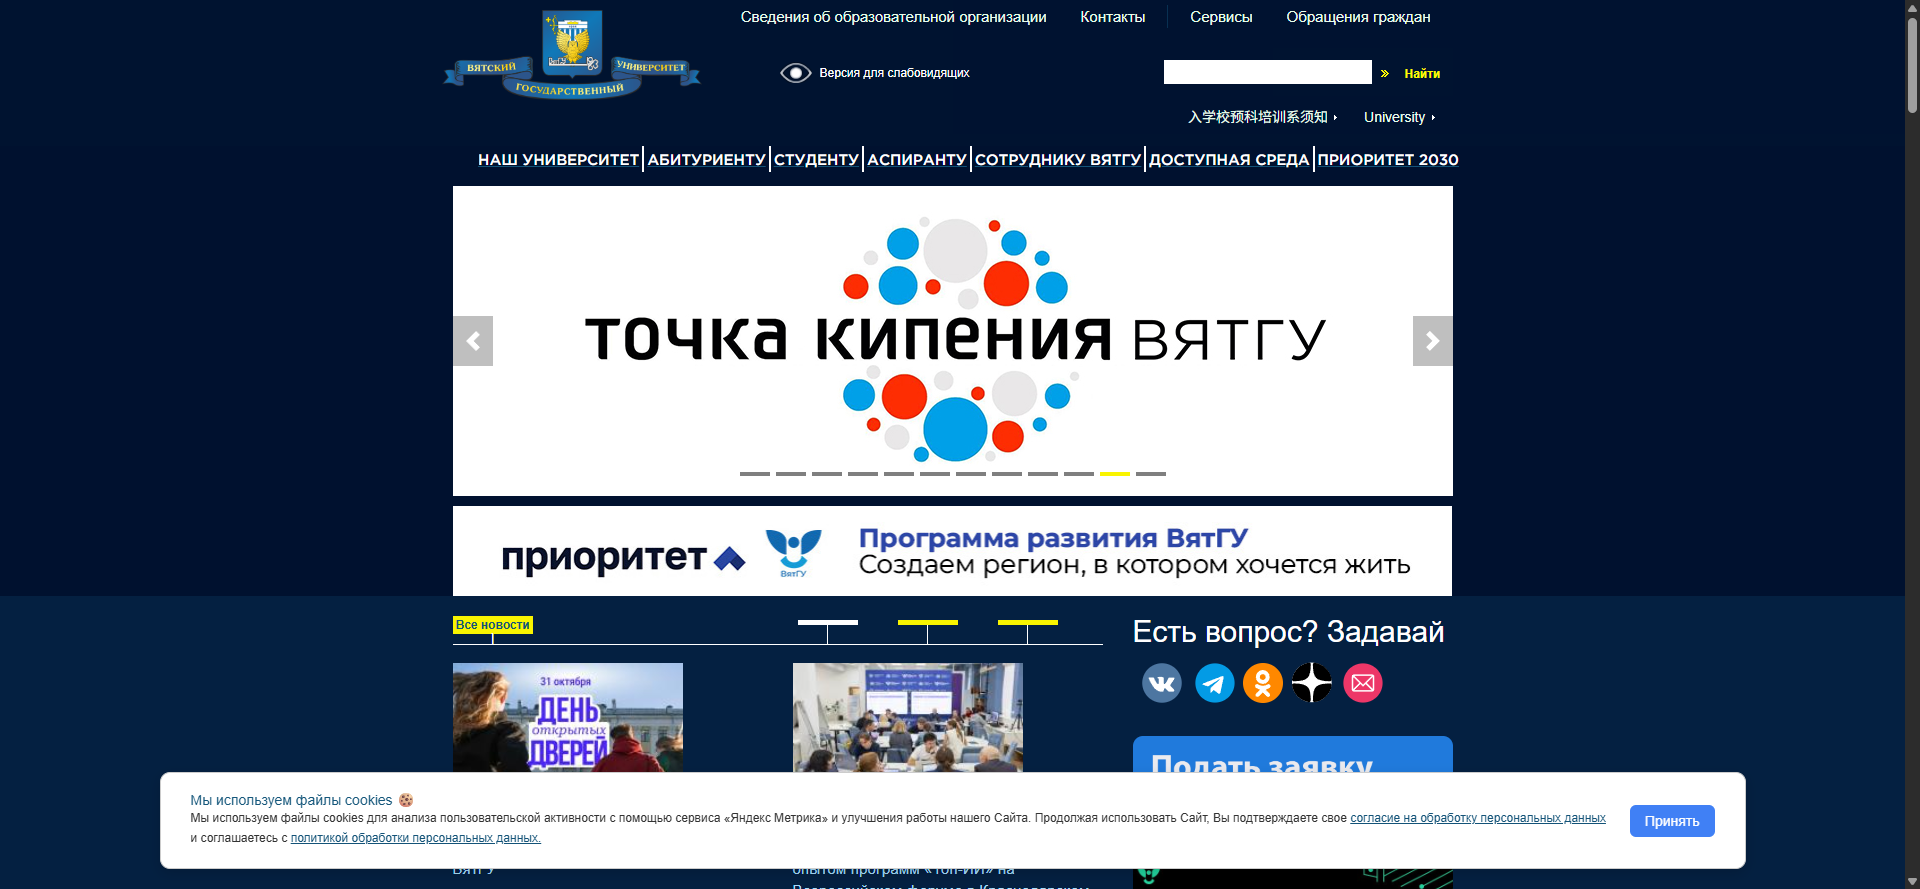
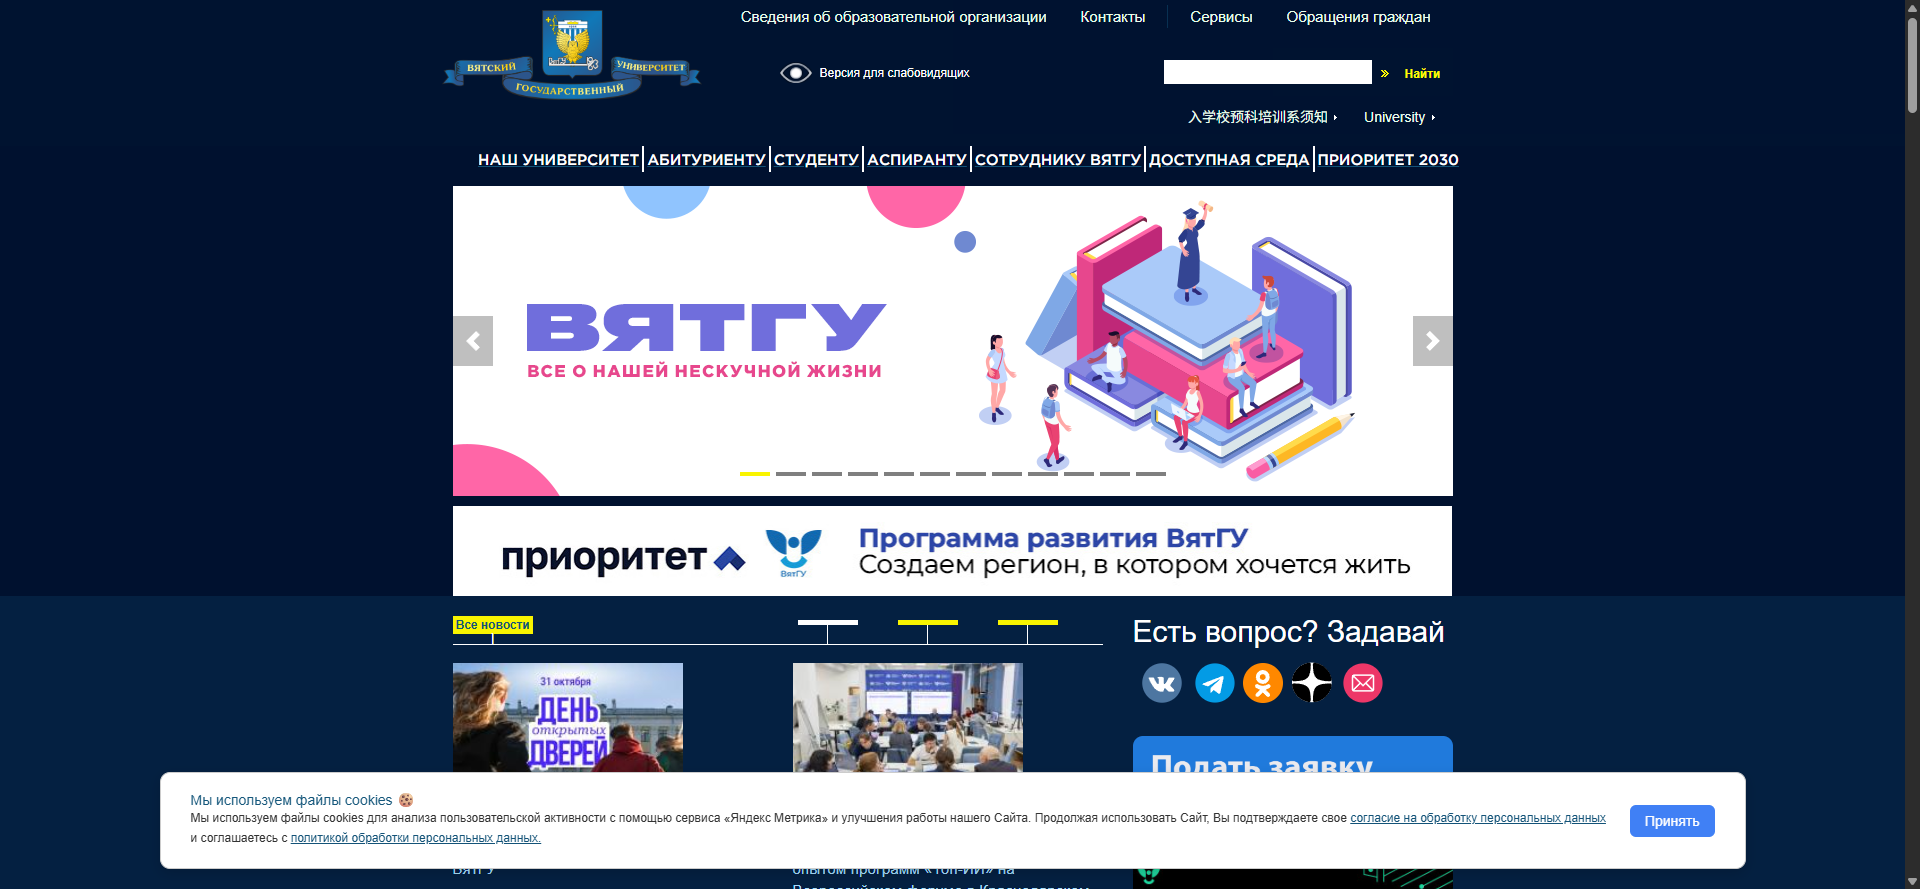
Добавлен запрет на запросы к яндекс.метрике для ускорения загрузки страницы (эти запросы блокируются роутером и упираются в timelimit)

Changed region(s): [[0.25, 0.1822, 0.7188, 0.5467], [0.2188, 0.4859, 0.3125, 0.5771], [0.3125, 0.2126, 0.375, 0.243]]

diff --git a/src/test/java/lab4/VyatsuTest.java b/src/test/java/lab4/VyatsuTest.java
@@ -11,6 +11,10 @@ import org.openqa.selenium.chrome.ChromeDriver;
 import org.openqa.selenium.interactions.Actions;
 import org.openqa.selenium.support.ui.WebDriverWait;
 import org.openqa.selenium.support.ui.ExpectedConditions;
+import org.openqa.selenium.chrome.ChromeDriver;
+import org.openqa.selenium.chrome.ChromeOptions;
+import java.util.Map;
+import java.util.List;
 
 import java.time.Duration;
 import java.util.Objects;
@@ -33,7 +37,18 @@ public class VyatsuTest {
 
     @BeforeEach
     void setup() {
-        driver = new ChromeDriver();
+        ChromeDriver chrome = new ChromeDriver();
+        driver = chrome;
+        driver.manage().window().maximize();
+
+        chrome.executeCdpCommand("Network.enable", Map.of());
+        chrome.executeCdpCommand("Network.setBlockedURLs", Map.of(
+                "urls", List.of(
+                        "*://mc.yandex.ru/*",
+                        "*://openstat.net/*"
+                )
+        ));
+
         wait = new WebDriverWait(driver, Duration.ofSeconds(10));
     }
 
@@ -59,5 +74,4 @@ public class VyatsuTest {
         screenshot("vyatsu_titleTest");
         assertEquals("Официальный сайт ВятГУ", driver.getTitle());
     }
-
 }
